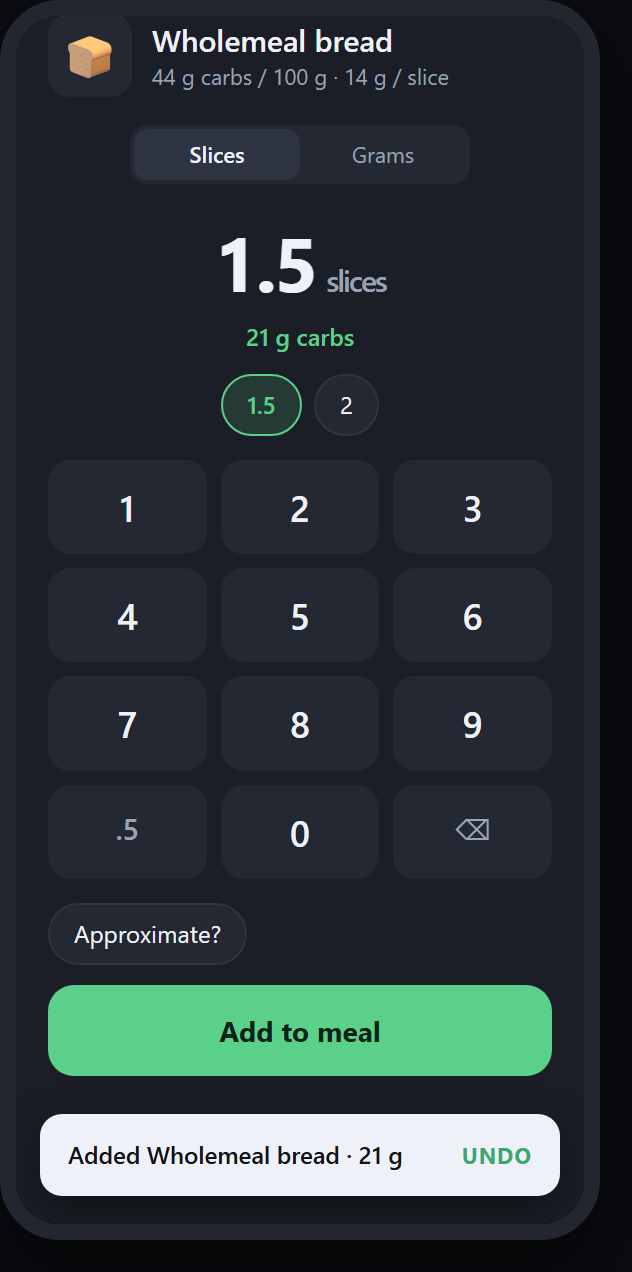
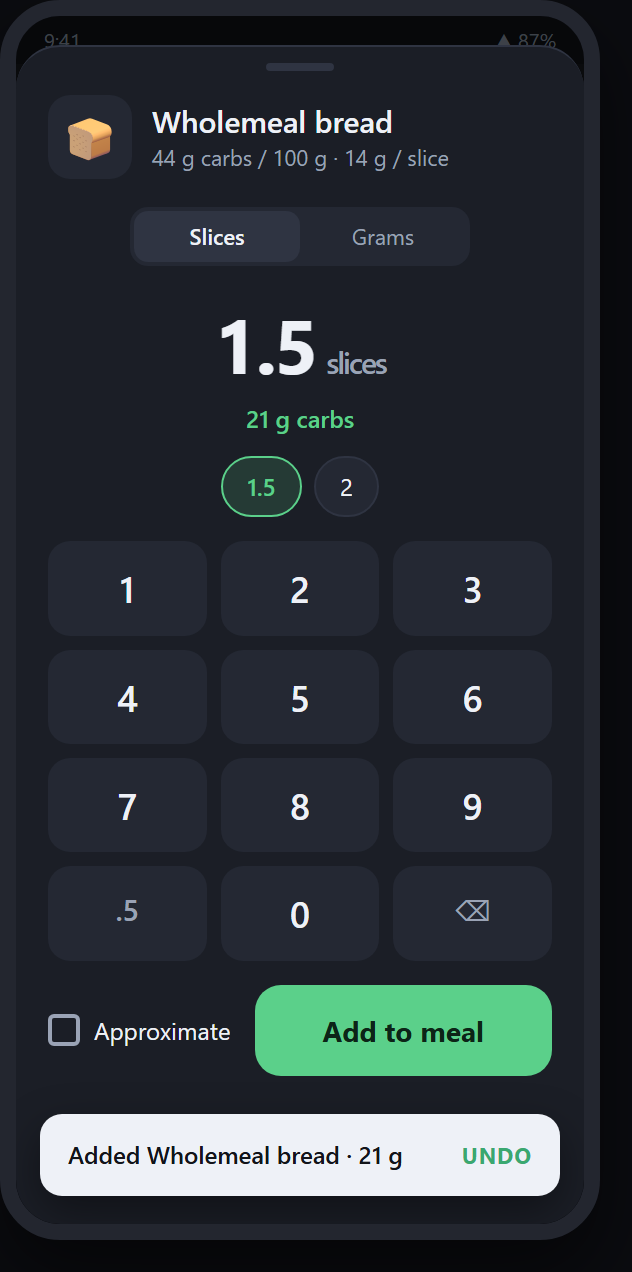
Approximate checkbox on the commit row, AI sheet: Discard first, no ad-hoc note

diff --git a/store/mockup/index.html b/store/mockup/index.html
@@ -174,6 +174,11 @@ h1{font-size:20px;font-weight:600;margin-bottom:4px}
 .empty .s{font-size:12px;color:var(--dim);line-height:1.5}
 .note{max-width:1000px;margin-top:26px;padding:16px 18px;background:var(--surface);border:1px solid var(--line);border-radius:14px;font-size:13px;color:var(--dim);line-height:1.7}
 .note b{color:var(--txt)}
+.cbx{display:flex;align-items:center;gap:7px;font-size:12px;flex:0 0 auto;padding-right:4px}
+.cbx i{width:16px;height:16px;border-radius:3px;border:2px solid var(--dim);display:inline-block;box-sizing:border-box}
+.cbx.on i{background:var(--acc);border-color:var(--acc);position:relative}
+.cbx.on i:after{content:"";position:absolute;left:4px;top:0;width:4px;height:9px;border:solid #12141a;border-width:0 2px 2px 0;transform:rotate(45deg)}
+.cta.inline{align-items:center}
 .approx{display:inline-block;background:var(--surface2);border:1px solid var(--line);border-radius:18px;padding:6px 12px;font-size:12px;margin:0 0 10px}
 .approx.on{background:rgba(91,208,138,.16);border-color:var(--acc);color:var(--acc);font-weight:600}
 .new{outline:2px dashed rgba(91,208,138,.75);outline-offset:3px;border-radius:12px}
@@ -245,7 +250,7 @@ kbd{background:var(--surface2);border:1px solid var(--line);border-radius:5px;pa
 </div>
 
 <div class="screen">
-  <div class="cap"><b>2</b> &middot; Quantity &mdash; tap &ldquo;Approximate?&rdquo; to flag it</div>
+  <div class="cap"><b>2</b> &middot; Quantity &mdash; tap tick &ldquo;Approximate&rdquo; to flag it</div>
   <div class="phone">
     <div class="status"><span>9:41</span><span>&#9650; 87%</span></div>
     <div class="hero">
@@ -281,14 +286,13 @@ kbd{background:var(--surface2);border:1px solid var(--line);border-radius:5px;pa
       <div class="chips">
         <div class="chip on">150 g</div><div class="chip">200 g</div>
       </div>
-      <div class="pad" style="margin-bottom:10px">
+      <div class="pad">
         <div class="key">1</div><div class="key">2</div><div class="key">3</div>
         <div class="key">4</div><div class="key">5</div><div class="key">6</div>
         <div class="key">7</div><div class="key">8</div><div class="key">9</div>
         <div class="key f">.</div><div class="key">0</div><div class="key f">&#9003;</div>
       </div>
-      <div class="approx new">Approximate?</div>
-      <div class="cta"><div class="btn">Add to meal</div></div>
+      <div class="cta inline new"><div class="cbx"><i></i>Approximate</div><div class="btn">Add to meal</div></div>
     </div>
   </div>
 </div>
@@ -338,8 +342,7 @@ kbd{background:var(--surface2);border:1px solid var(--line);border-radius:5px;pa
         <div class="key">7</div><div class="key">8</div><div class="key">9</div>
         <div class="key f">.5</div><div class="key">0</div><div class="key f">&#9003;</div>
       </div>
-      <div class="approx">Approximate?</div>
-      <div class="cta"><div class="btn">Add to meal</div></div>
+      <div class="cta inline"><div class="cbx"><i></i>Approximate</div><div class="btn">Add to meal</div></div>
     </div>
     <div class="snack">Added Wholemeal bread &middot; 21 g <b>Undo</b></div>
   </div>
@@ -473,7 +476,6 @@ kbd{background:var(--surface2);border:1px solid var(--line);border-radius:5px;pa
       <div class="field"><label>Carbs per 100 g</label><div class="input">30</div></div>
       <div class="sw"><div><div class="k">Available in portions</div><div class="d">Slices, units, spoons&hellip;</div></div><div class="knob off"></div></div>
       <div class="sw new"><div><div class="k">Approximate by default</div><div class="d">For foods you can only guess, like restaurant dishes</div></div><div class="knob"></div></div>
-      <div class="hint">Every time this is logged, the quantity sheet opens with <span style="color:var(--acc)">&asymp; Approximate</span> already on. One tap undoes it for a single entry.</div>
     </div>
   </div>
 </div>
@@ -554,8 +556,7 @@ kbd{background:var(--surface2);border:1px solid var(--line);border-radius:5px;pa
         <div class="parse">Found a number in your clipboard
           <b>62 g carbs</b>
         </div>
-        <div class="new" style="font-size:10px;color:var(--dim);margin:-2px 0 10px;padding:4px 6px">&asymp; Logged as approximate &mdash; AI estimates always are</div>
-        <div class="cta"><div class="btn">Confirm &amp; add</div><div class="btn danger">Discard</div></div>
+        <div class="cta new"><div class="btn danger">Discard</div><div class="btn">Confirm &amp; add</div></div>
       </div>
       <div class="sect">Sent to &middot; Gemini</div>
       <div style="background:var(--surface);border:1px solid var(--line);border-radius:11px;padding:10px;font-size:10px;color:var(--dim);line-height:1.5">

diff --git a/store/mockup/shot.html b/store/mockup/shot.html
@@ -174,6 +174,11 @@ h1{font-size:20px;font-weight:600;margin-bottom:4px}
 .empty .s{font-size:12px;color:var(--dim);line-height:1.5}
 .note{max-width:1000px;margin-top:26px;padding:16px 18px;background:var(--surface);border:1px solid var(--line);border-radius:14px;font-size:13px;color:var(--dim);line-height:1.7}
 .note b{color:var(--txt)}
+.cbx{display:flex;align-items:center;gap:7px;font-size:12px;flex:0 0 auto;padding-right:4px}
+.cbx i{width:16px;height:16px;border-radius:3px;border:2px solid var(--dim);display:inline-block;box-sizing:border-box}
+.cbx.on i{background:var(--acc);border-color:var(--acc);position:relative}
+.cbx.on i:after{content:"";position:absolute;left:4px;top:0;width:4px;height:9px;border:solid #12141a;border-width:0 2px 2px 0;transform:rotate(45deg)}
+.cta.inline{align-items:center}
 .approx{display:inline-block;background:var(--surface2);border:1px solid var(--line);border-radius:18px;padding:6px 12px;font-size:12px;margin:0 0 10px}
 .approx.on{background:rgba(91,208,138,.16);border-color:var(--acc);color:var(--acc);font-weight:600}
 .new{outline:2px dashed rgba(91,208,138,.75);outline-offset:3px;border-radius:12px}
@@ -245,7 +250,7 @@ kbd{background:var(--surface2);border:1px solid var(--line);border-radius:5px;pa
 </div>
 
 <div class="screen">
-  <div class="cap"><b>2</b> &middot; Quantity &mdash; tap &ldquo;Approximate?&rdquo; to flag it</div>
+  <div class="cap"><b>2</b> &middot; Quantity &mdash; tap tick &ldquo;Approximate&rdquo; to flag it</div>
   <div class="phone">
     <div class="status"><span>9:41</span><span>&#9650; 87%</span></div>
     <div class="hero">
@@ -281,14 +286,13 @@ kbd{background:var(--surface2);border:1px solid var(--line);border-radius:5px;pa
       <div class="chips">
         <div class="chip on">150 g</div><div class="chip">200 g</div>
       </div>
-      <div class="pad" style="margin-bottom:10px">
+      <div class="pad">
         <div class="key">1</div><div class="key">2</div><div class="key">3</div>
         <div class="key">4</div><div class="key">5</div><div class="key">6</div>
         <div class="key">7</div><div class="key">8</div><div class="key">9</div>
         <div class="key f">.</div><div class="key">0</div><div class="key f">&#9003;</div>
       </div>
-      <div class="approx new">Approximate?</div>
-      <div class="cta"><div class="btn">Add to meal</div></div>
+      <div class="cta inline new"><div class="cbx"><i></i>Approximate</div><div class="btn">Add to meal</div></div>
     </div>
   </div>
 </div>
@@ -338,8 +342,7 @@ kbd{background:var(--surface2);border:1px solid var(--line);border-radius:5px;pa
         <div class="key">7</div><div class="key">8</div><div class="key">9</div>
         <div class="key f">.5</div><div class="key">0</div><div class="key f">&#9003;</div>
       </div>
-      <div class="approx">Approximate?</div>
-      <div class="cta"><div class="btn">Add to meal</div></div>
+      <div class="cta inline"><div class="cbx"><i></i>Approximate</div><div class="btn">Add to meal</div></div>
     </div>
     <div class="snack">Added Wholemeal bread &middot; 21 g <b>Undo</b></div>
   </div>
@@ -473,7 +476,6 @@ kbd{background:var(--surface2);border:1px solid var(--line);border-radius:5px;pa
       <div class="field"><label>Carbs per 100 g</label><div class="input">30</div></div>
       <div class="sw"><div><div class="k">Available in portions</div><div class="d">Slices, units, spoons&hellip;</div></div><div class="knob off"></div></div>
       <div class="sw new"><div><div class="k">Approximate by default</div><div class="d">For foods you can only guess, like restaurant dishes</div></div><div class="knob"></div></div>
-      <div class="hint">Every time this is logged, the quantity sheet opens with <span style="color:var(--acc)">&asymp; Approximate</span> already on. One tap undoes it for a single entry.</div>
     </div>
   </div>
 </div>
@@ -554,8 +556,7 @@ kbd{background:var(--surface2);border:1px solid var(--line);border-radius:5px;pa
         <div class="parse">Found a number in your clipboard
           <b>62 g carbs</b>
         </div>
-        <div class="new" style="font-size:10px;color:var(--dim);margin:-2px 0 10px;padding:4px 6px">&asymp; Logged as approximate &mdash; AI estimates always are</div>
-        <div class="cta"><div class="btn">Confirm &amp; add</div><div class="btn danger">Discard</div></div>
+        <div class="cta new"><div class="btn danger">Discard</div><div class="btn">Confirm &amp; add</div></div>
       </div>
       <div class="sect">Sent to &middot; Gemini</div>
       <div style="background:var(--surface);border:1px solid var(--line);border-radius:11px;padding:10px;font-size:10px;color:var(--dim);line-height:1.5">

diff --git a/store/mockup/screens.html b/store/mockup/screens.html
@@ -65,7 +65,7 @@
 
 <div class="grid">
   <figure><a href="screen-01-1-home-one-guess-makes-the-total.png"><img src="screen-01-1-home-one-guess-makes-the-total.png" alt="1 Home one guess makes the total ~"></a><figcaption>1 &middot; Home &mdash; one guess makes the total ~</figcaption></figure>
-  <figure><a href="screen-02-2-quantity-tap-approximate-to-flag-it.png"><img src="screen-02-2-quantity-tap-approximate-to-flag-it.png" alt="2 Quantity Approximate? chip"></a><figcaption>2 &middot; Quantity &mdash; &ldquo;Approximate?&rdquo; chip</figcaption></figure>
+  <figure><a href="screen-02-2-quantity-tap-tick-approximate-to-flag-it.png"><img src="screen-02-2-quantity-tap-tick-approximate-to-flag-it.png" alt="2 Quantity Approximate checkbox"></a><figcaption>2 &middot; Quantity &mdash; Approximate checkbox</figcaption></figure>
   <figure><a href="screen-03-3-portion-item-undo.png"><img src="screen-03-3-portion-item-undo.png" alt="3 Portion item + undo"></a><figcaption>3 &middot; Portion item + undo</figcaption></figure>
   <figure><a href="screen-04-4-search-create-inline.png"><img src="screen-04-4-search-create-inline.png" alt="4 Search create inline"></a><figcaption>4 &middot; Search &rarr; create inline</figcaption></figure>
   <figure><a href="screen-05-5-new-catalog-item.png"><img src="screen-05-5-new-catalog-item.png" alt="5 New catalog item (Web button)"></a><figcaption>5 &middot; New catalog item (Web button)</figcaption></figure>
@@ -73,7 +73,7 @@
   <figure><a href="screen-07-5c-a-food-you-can-only-guess.png"><img src="screen-07-5c-a-food-you-can-only-guess.png" alt="5c Approximate by default"></a><figcaption>5c &middot; Approximate by default</figcaption></figure>
   <figure><a href="screen-08-5d-web-your-browser.png"><img src="screen-08-5d-web-your-browser.png" alt="5d Web your browser"></a><figcaption>5d &middot; Web &rarr; your browser</figcaption></figure>
   <figure><a href="screen-09-5e-share-glucarb-back-in-the-editor.png"><img src="screen-09-5e-share-glucarb-back-in-the-editor.png" alt="5e Share Glucarb"></a><figcaption>5e &middot; Share &rarr; Glucarb</figcaption></figure>
-  <figure><a href="screen-10-6-ai-estimate-return.png"><img src="screen-10-6-ai-estimate-return.png" alt="6 AI estimate always approximate"></a><figcaption>6 &middot; AI estimate &mdash; always approximate</figcaption></figure>
+  <figure><a href="screen-10-6-ai-estimate-return.png"><img src="screen-10-6-ai-estimate-return.png" alt="6 AI estimate return"></a><figcaption>6 &middot; AI estimate &mdash; return</figcaption></figure>
   <figure><a href="screen-11-7-history.png"><img src="screen-11-7-history.png" alt="7 History"></a><figcaption>7 &middot; History</figcaption></figure>
   <figure><a href="screen-12-7b-export-pick-a-starting-point.png"><img src="screen-12-7b-export-pick-a-starting-point.png" alt="7b Export starting point"></a><figcaption>7b &middot; Export &mdash; starting point</figcaption></figure>
   <figure><a href="screen-13-7c-what-the-file-looks-like.png"><img src="screen-13-7c-what-the-file-looks-like.png" alt="7c One row per item"></a><figcaption>7c &middot; One row per item</figcaption></figure>

diff --git a/app/src/main/java/com/glucarb/ui/home/QuantitySheet.kt b/app/src/main/java/com/glucarb/ui/home/QuantitySheet.kt
@@ -13,6 +13,7 @@ import androidx.compose.foundation.layout.size
 import androidx.compose.foundation.shape.RoundedCornerShape
 import androidx.compose.material3.Button
 import androidx.compose.material3.ButtonDefaults
+import androidx.compose.material3.Checkbox
 import androidx.compose.material3.ExperimentalMaterial3Api
 import androidx.compose.material3.MaterialTheme
 import androidx.compose.material3.ModalBottomSheet
@@ -22,6 +23,8 @@ import androidx.compose.runtime.Composable
 import androidx.compose.ui.Alignment
 import androidx.compose.ui.Modifier
 import androidx.compose.ui.draw.clip
+import androidx.compose.foundation.selection.toggleable
+import androidx.compose.ui.semantics.Role
 import androidx.compose.ui.semantics.contentDescription
 import androidx.compose.ui.semantics.semantics
 import androidx.compose.ui.text.font.FontWeight
@@ -143,27 +146,27 @@ fun QuantitySheet(
                 onKey = onKey,
             )
 
-            // Beside the commit, not in a menu: flipping it is the only extra tap an
-            // approximate entry costs, and an item's default usually saves even that.
-            QuantityChip(
-                text = if (state.approximate) "\u2248 Approximate" else "Approximate?",
-                selected = state.approximate,
-                onClick = onToggleApproximate,
-                modifier = Modifier
-                    .padding(top = 12.dp)
-                    .semantics {
-                        contentDescription = if (state.approximate) {
-                            "Marked approximate, tap to mark exact"
-                        } else {
-                            "Exact, tap to mark approximate"
-                        }
-                    },
-            )
-
             Row(
+                verticalAlignment = Alignment.CenterVertically,
                 horizontalArrangement = Arrangement.spacedBy(8.dp),
                 modifier = Modifier.fillMaxWidth().padding(top = 12.dp),
             ) {
+                // On the commit row, not in a menu: flipping it is the only extra tap an
+                // approximate entry costs, and an item's default usually saves even that.
+                Row(
+                    verticalAlignment = Alignment.CenterVertically,
+                    modifier = Modifier
+                        .clip(RoundedCornerShape(8.dp))
+                        .toggleable(
+                            value = state.approximate,
+                            role = Role.Checkbox,
+                            onValueChange = { onToggleApproximate() },
+                        )
+                        .padding(end = 6.dp),
+                ) {
+                    Checkbox(checked = state.approximate, onCheckedChange = null)
+                    Text("Approximate", fontSize = 13.sp)
+                }
                 Button(
                     onClick = onCommit,
                     enabled = state.value > 0.0,

diff --git a/app/src/main/java/com/glucarb/ui/home/AdHocSheet.kt b/app/src/main/java/com/glucarb/ui/home/AdHocSheet.kt
@@ -1,6 +1,5 @@
 package com.glucarb.ui.home
 
-import androidx.compose.foundation.background
 import androidx.compose.foundation.layout.Arrangement
 import androidx.compose.foundation.layout.Box
 import androidx.compose.foundation.layout.Column
@@ -96,13 +95,6 @@ fun AdHocSheet(
                 horizontalArrangement = Arrangement.spacedBy(8.dp),
                 modifier = Modifier.fillMaxWidth().padding(top = 12.dp),
             ) {
-                Button(
-                    onClick = onCommit,
-                    enabled = (state.input.toDoubleOrNull() ?: 0.0) > 0.0,
-                    modifier = Modifier.weight(1f),
-                ) {
-                    Text("Confirm & add", fontWeight = FontWeight.Bold)
-                }
                 // Same fix as the entry sheet's Delete: a fixed narrow button wrapped the
                 // label onto two lines. Sharing Confirm's shape and taking the error colour
                 // reads as destructive without being cramped.
@@ -116,22 +108,13 @@ fun AdHocSheet(
                 ) {
                     Text("Discard", fontWeight = FontWeight.Bold)
                 }
-            }
-
-            Box(
-                Modifier
-                    .padding(top = 10.dp)
-                    .fillMaxWidth()
-                    .clip(RoundedCornerShape(10.dp))
-                    .background(MaterialTheme.colorScheme.surfaceVariant)
-                    .padding(10.dp)
-            ) {
-                Text(
-                    "Ad-hoc estimates are not added to your catalog, so they never distort " +
-                        "your suggestions.",
-                    style = MaterialTheme.typography.bodySmall,
-                    color = MaterialTheme.colorScheme.onSurfaceVariant,
-                )
+                Button(
+                    onClick = onCommit,
+                    enabled = (state.input.toDoubleOrNull() ?: 0.0) > 0.0,
+                    modifier = Modifier.weight(1f),
+                ) {
+                    Text("Confirm & add", fontWeight = FontWeight.Bold)
+                }
             }
         }
     }
